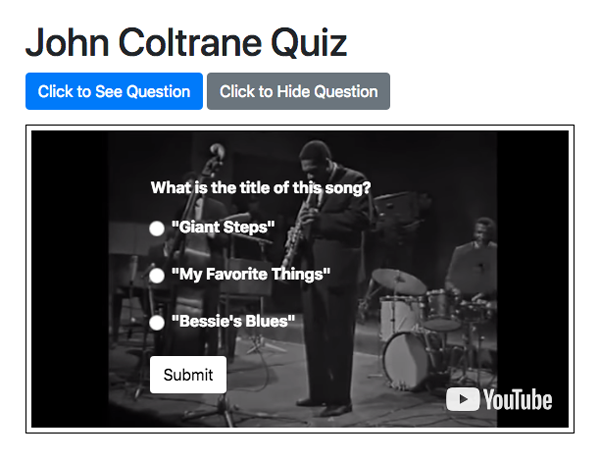
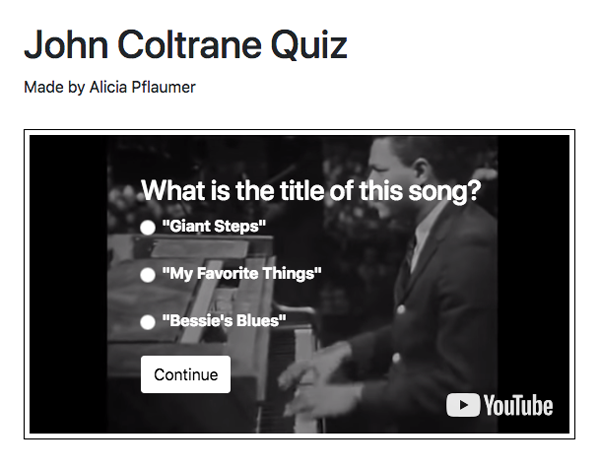
Replaced image in README
- Updated screencapture

diff --git a/assets/index.js b/assets/index.js
@@ -7,8 +7,8 @@ function onYouTubeIframeAPIReady() {
     width: '560',
     videoId: 'NWYWgda5f0I',
     playerVars: {
-      autoplay: 1,
-      'controls': 1,
+      'autoplay': 0,
+      'controls': 0,
       'rel': 0,
       'showinfo': 0,
     },
